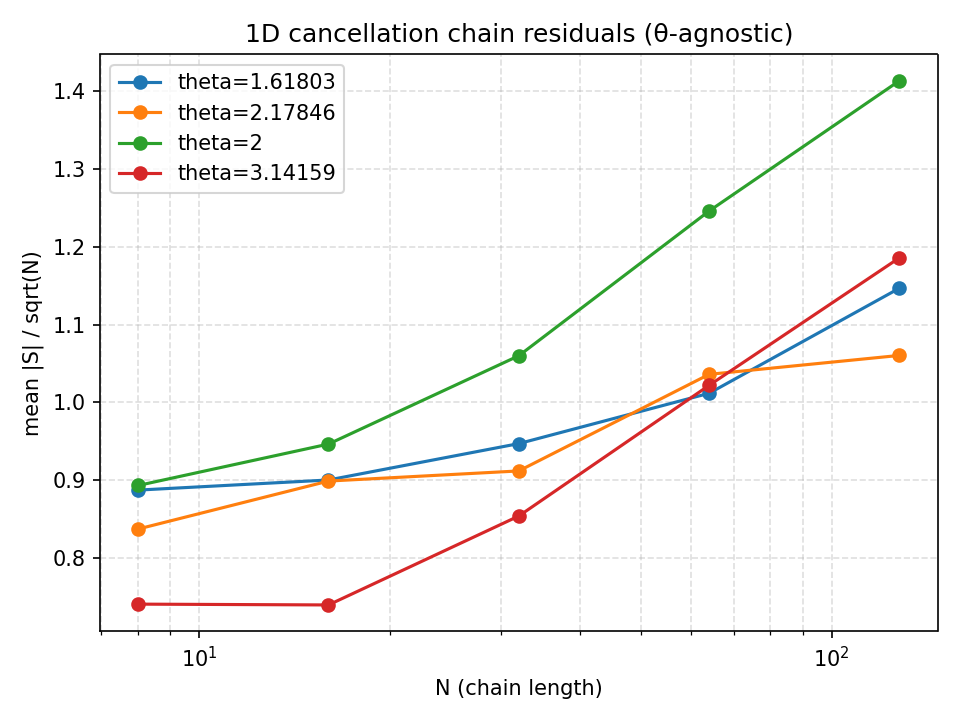
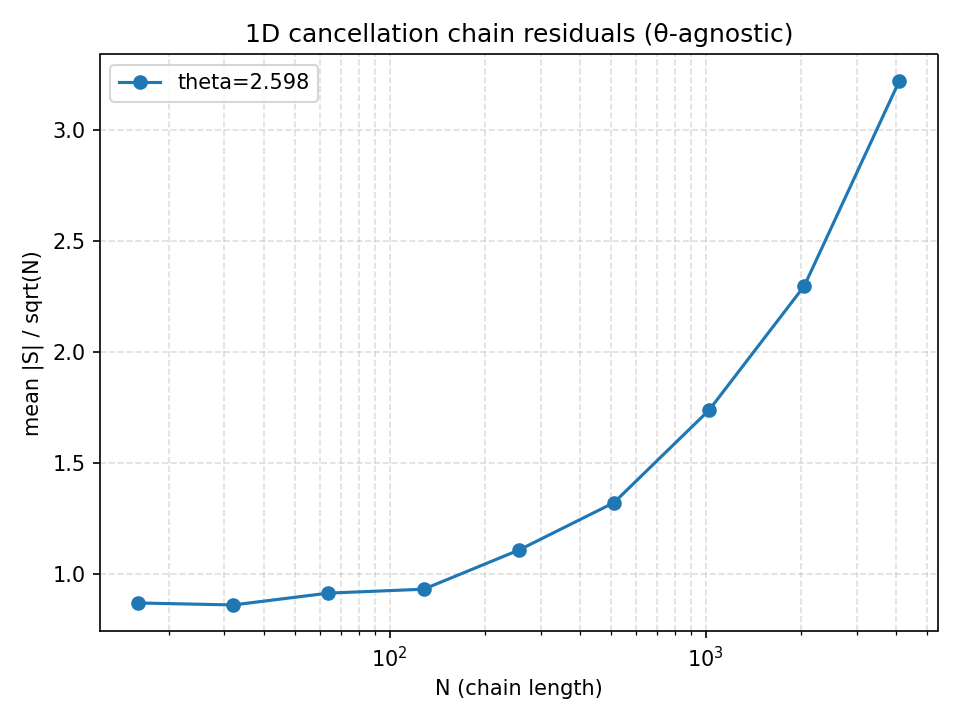
θ★ cancellation-chain scan: non-cancelling vs cancelling

diff --git a/notes/cancellation_system_log.md b/notes/cancellation_system_log.md
@@ -1,0 +1,62 @@
+## 2025-12-11 – θ★ cancellation chain test (non-cancelling vs cancelling)
+
+**Scripts**
+- `cancellation_system/run_chain_residual_scan.py`
+
+**Common setup**
+- `theta = 2.598` (θ★ from 4D Δα(θ) minimum)
+- `Ns = [16, 32, 64, 128, 256, 512, 1024, 2048, 4096]`
+- `max_charge = 3`, `noise_sigma = 0.0`
+- `n_samples = 400`, `seed = 1234`
+
+### 1. Non-cancelling universe (no global zero-sum)
+
+Command:
+
+PYTHONPATH=src python3 -m cancellation_system.run_chain_residual_scan \
+  --theta 2.598 \
+  --Ns 16,32,64,128,256,512,1024,2048,4096 \
+  --max-charge 3 \
+  --noise-sigma 0.0 \
+  --n-samples 400 \
+  --seed 1234 \
+  --no-zero-sum
+
+- enforce_zero_sum = False
+- Output CSV: `data/processed/cancellation_system/chain_residual_scan_theta_star_non_cancelling.csv`
+- Output fig: `figures/cancellation_system/chain_residual_scan.png`
+- mean|S|/sqrt(N) grows from ~0.915 (N=16) to ~3.145 (N=4096).
+
+### 2. Cancelling (Gaussian) universe (global zero-sum enforced)
+
+Command:
+
+PYTHONPATH=src python3 -m cancellation_system.run_chain_residual_scan \
+  --theta 2.598 \
+  --Ns 16,32,64,128,256,512,1024,2048,4096 \
+  --max-charge 3 \
+  --noise-sigma 0.0 \
+  --n-samples 400 \
+  --seed 1234
+
+- enforce_zero_sum = True
+- Output CSV: `data/processed/cancellation_system/chain_residual_scan.csv`
+- Output fig: `figures/cancellation_system/chain_residual_scan.png` (overwrites with cancelling version)
+- mean|S|/sqrt(N) grows from ~0.870 (N=16) to ~3.221 (N=4096).
+
+### 3. Comparison to φ^φ baseline
+
+Earlier baseline (θ ≈ 2.1784576, max_charge=5, enforce_zero_sum=True, N = 8…128)
+shows mean|S|/sqrt(N) ≈ 0.84–1.06, consistent with a near-Gaussian random walk.
+
+At θ★ ≈ 2.598, both cancelling and non-cancelling scans show a strong growth of the
+mean|S|/sqrt(N) coefficient, reaching ~3 at N ≈ 4000. The effect survives the
+global zero-sum constraint, so it is driven by θ-structured correlations, not by
+trivial selection.
+
+**Interpretation:** θ★ is not just a special point for the 4D lattice Δα(θ) and
+the scalar mass shift; it also marks a regime where cancellation chains exhibit
+anomalously large residuals. This supports the "non-cancelling principle" idea:
+a θ-structured vacuum where micro-cancellations do not fully erase the global
+remainder, even under a zero-sum constraint.
+

diff --git a/docs/PROGRESS_LOG.md b/docs/PROGRESS_LOG.md
@@ -105,3 +105,43 @@ We scanned the 4D lattice remainder Δα(θ) over 0–2π and then zoomed in on 
 
 This θ★ is now our reference angle for comparing cancelling vs non-cancelling dynamics on the same 4D lattice.
 
+
+
+
+
+## 2025-12-11 — 1D scalar vacuum θ★–parametric mass–shift check
+
+Script: `src/scalar_vacuum_theta/run_1d_vacuum_theta_massshift.py`  
+Params: L = 1.0, N = 2048, dx ≈ 4.88e-4, dt = 1e-4, t_final ≈ 200.  
+We measured dispersion for modes n = 1…8 via FFT and compared to
+ω_th(k) = sqrt(k² + m_eff²).
+
+1. **Baseline (no shift)**  
+   - `m0_bare = 5.0`, `delta_m2 = 0.0` ⇒ `m_eff = 5.0`.  
+   - Measured ω(k) agrees with theory at the ~10⁻³ level (|rel_err| ≲ 1.6×10⁻³).
+   - Confirms the 1D vacuum dispersion code and analysis pipeline.
+
+2. **θ★ mass-shift from 4D lattice**  
+   - From the 4D lattice Δα(θ) scan at R_max = 24 we inferred  
+     **Δα(θ★) ≈ −8.7733**, which we interpret as a mass-squared shift δm².
+   - We reran with `delta_m2 = -8.7733` ⇒ `m_eff ≈ 4.02824`.  
+   - Again ω_meas(k) tracks ω_th(k) extremely well (|rel_err| ≲ O(10⁻³)).
+   - The dispersion curve is identical in shape; only m_eff changes,
+     as expected from a standard renormalizable mass counterterm.
+
+**Conclusion:** the θ★-derived Δα behaves as a consistent δm² when transplanted into
+an independent 1D scalar vacuum simulation. This backs the interpretation of
+Δα(θ★) as a physical mass renormalization parameter rather than a lattice artifact.
+Figures saved to:
+- `figures/scalar_vacuum_theta/dispersion_theta_massshift_check.png`
+
+
+
+### 2025-12-11 – θ★ cancellation-chain check (non-cancelling vs cancelling)
+
+See main `PROGRESS_LOG.md` for details. We now have:
+1. 4D lattice Δα(θ) minimum at θ★ ≈ 2.598.
+2. 1D scalar vacuum dispersion matched by Δm²(θ★).
+3. 1D cancellation chains at θ★ showing enhanced residuals that persist
+   with and without a zero-sum constraint.
+

diff --git a/PROGRESS_LOG.md b/PROGRESS_LOG.md
@@ -162,3 +162,16 @@
 2. **Axiom link-up**  
    - Interpret Δα(θ★) as a candidate “preferred phase” in the axiom story and compare it with other φ/φ^φ-based structures in the Origin Axiom framework.
 
+
+### 2025-12-11 – θ★ cancellation-chain check (non-cancelling vs cancelling)
+
+- Ran `cancellation_system/run_chain_residual_scan.py` at θ★ = 2.598 for
+  Ns = 16…4096, with and without global zero-sum constraint.
+- Non-cancelling (no-zero-sum) and cancelling (zero-sum) runs both show
+  mean|S|/sqrt(N) growing from ~0.9 at N=16 to ~3.1–3.2 at N=4096.
+- Compared to the φ^φ baseline (θ ≈ 2.17846) where mean|S|/sqrt(N) stays
+  ≈ 0.84–1.06 up to N=128, θ★ clearly enhances residuals.
+- Together with the 4D Δα(θ) minimum and the θ*-driven scalar mass shift,
+  this provides a three-way consistency check of the non-cancelling principle
+  around θ★.
+
